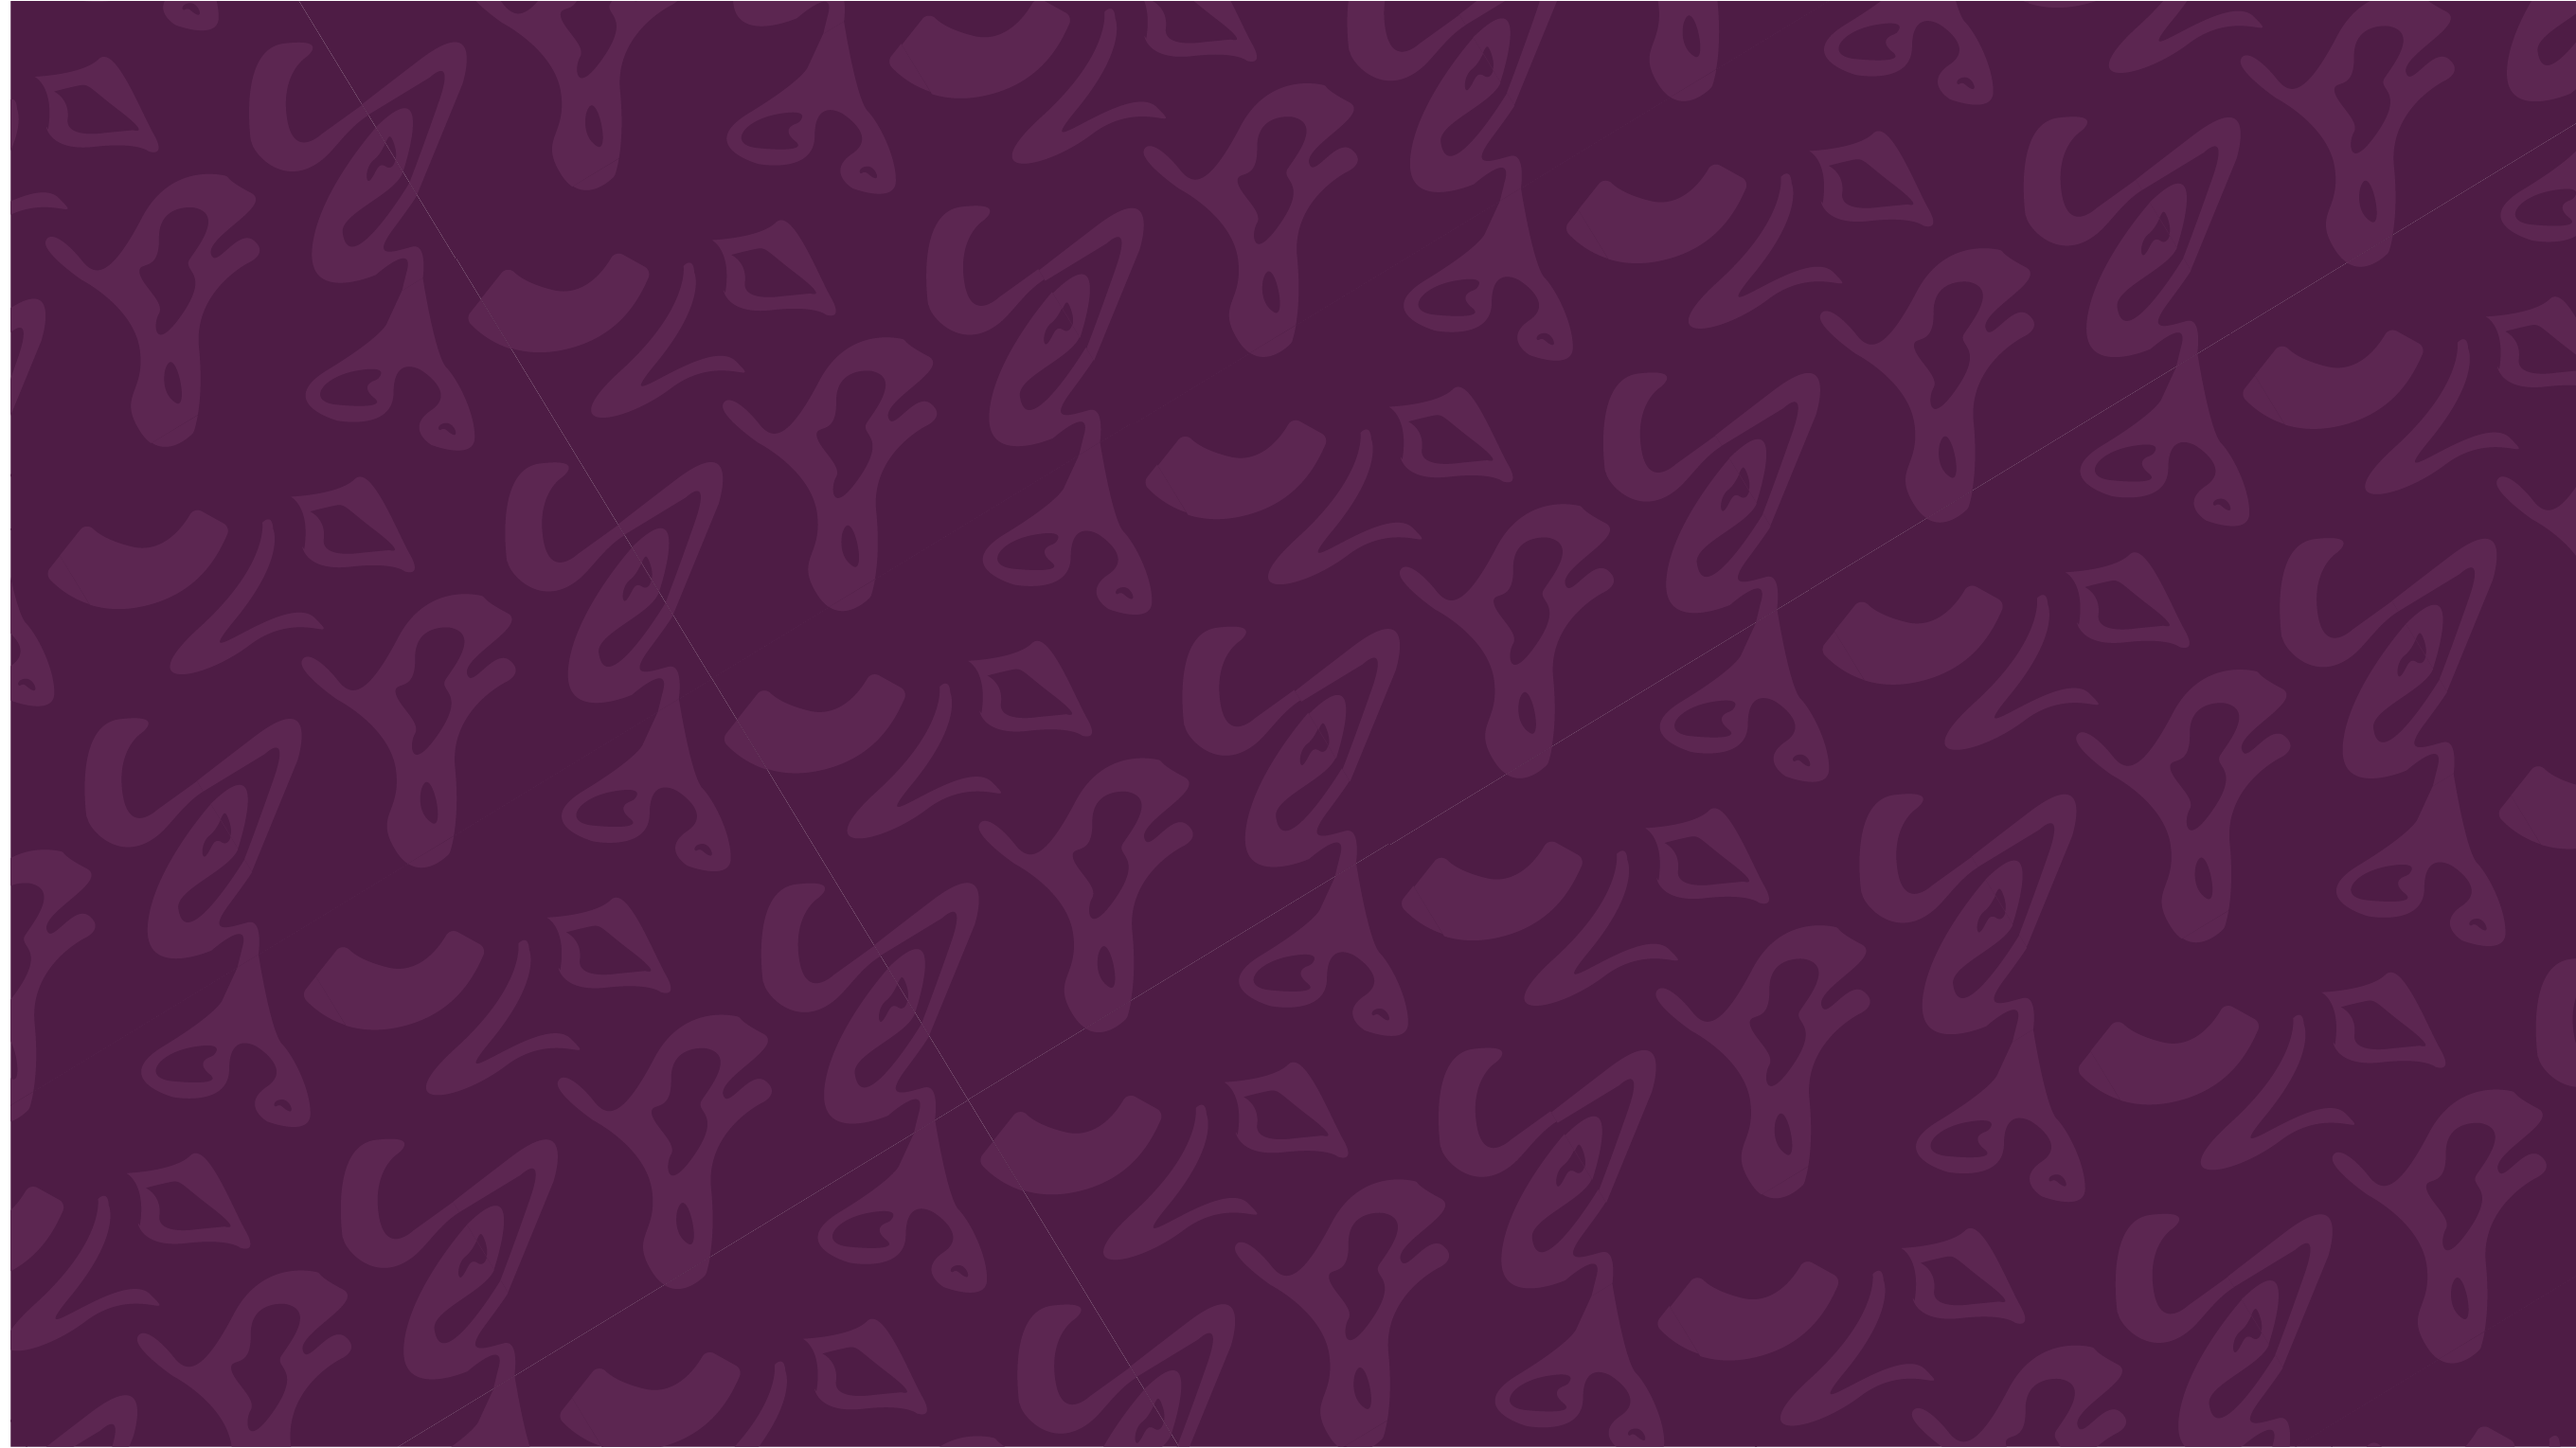
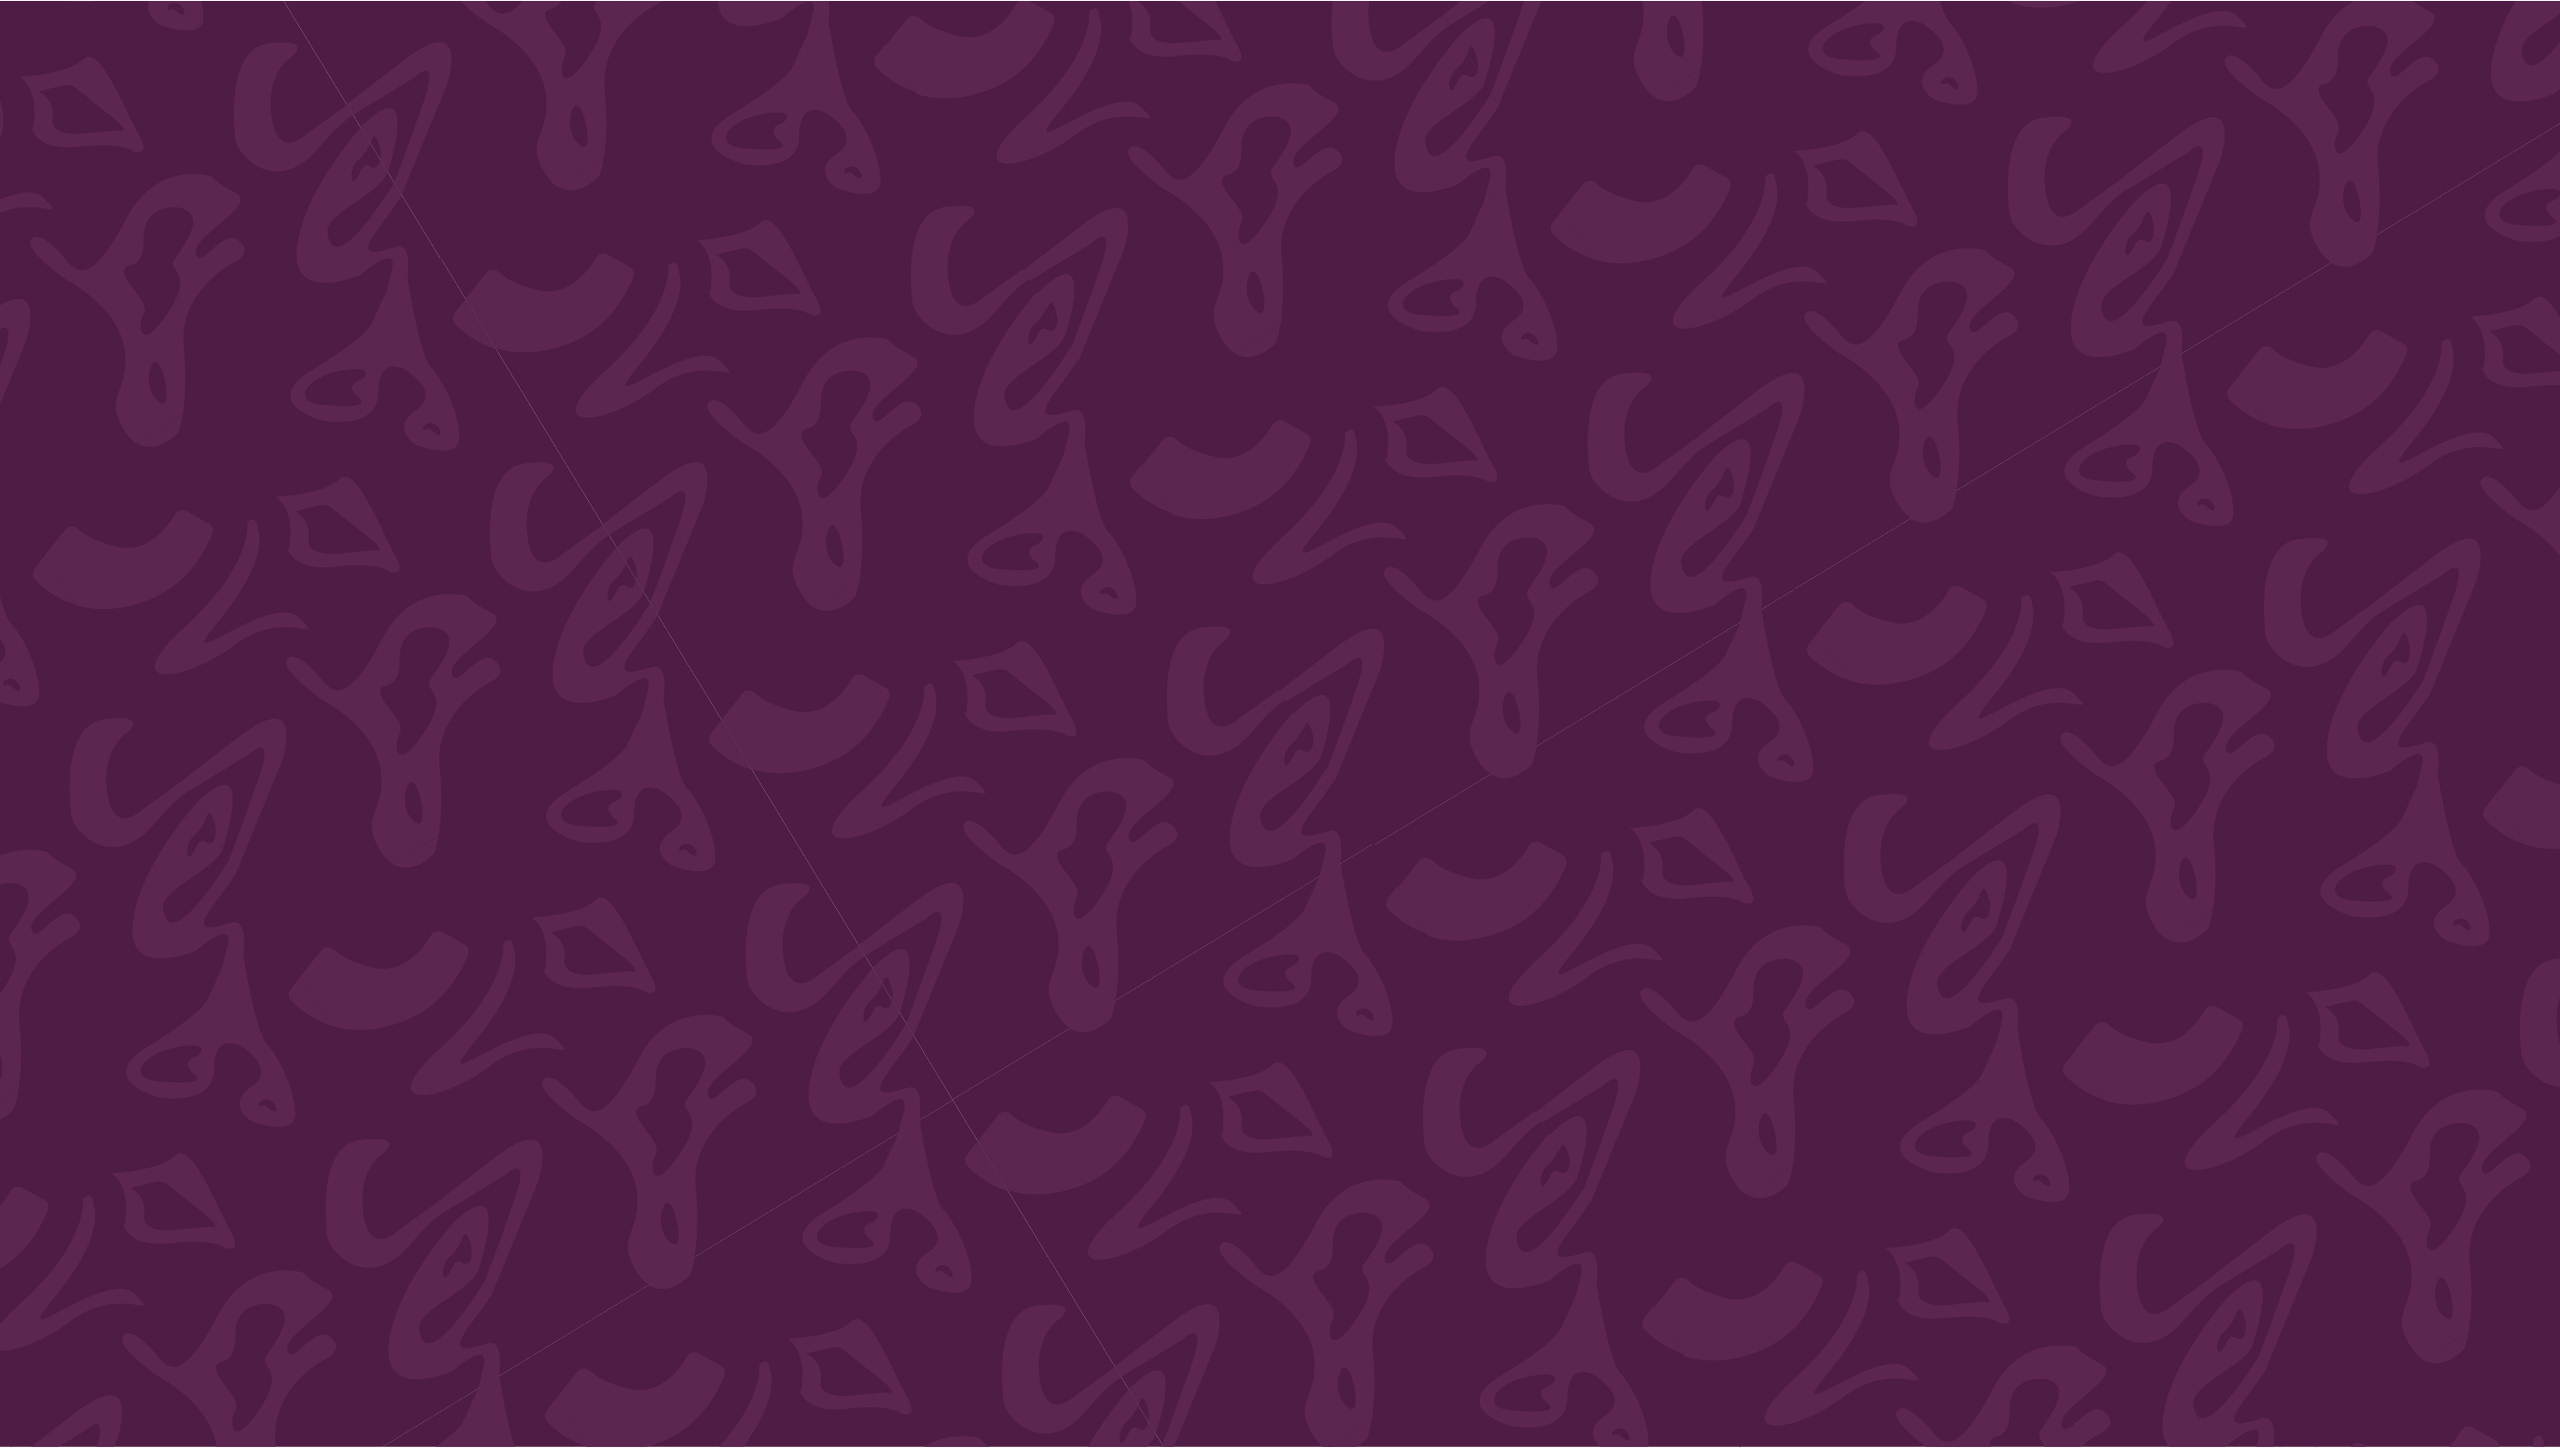
Fix background image placement

Changed region(s): [[0.0, 0.0, 0.0311, 1.0]]

diff --git a/gameworld.py b/gameworld.py
@@ -171,6 +171,7 @@ class View():
         self.screen = pygame.display.set_mode(screen_size, pygame.FULLSCREEN) # sets screen dimensions
         self.image = image.convert() # convert makes the image smaller
         pygame.display.set_caption('Window Viewer') # sets window caption
+        self.banner_size = (self.model.screen_size[0],160)
 
     def draw_player(self):
         """Draw the player at its draw position"""
@@ -231,6 +232,15 @@ class View():
                     [step.cell_coord[0], step.cell_coord[1],self.model.cell_size[0],
                     self.model.cell_size[1]])
 
+    def draw_banner(self):
+        "Draw banner associated with flag"
+        box = pygame.Rect(0, 0, self.banner_size[0], self.banner_size[1])
+        pygame.draw.rect(self.screen, (0,0,0), box)
+
+    def draw_banner_line(self):
+        purple = (36,15,32)
+        pygame.draw.line(self.screen, purple, (0,self.banner_size[1]), (self.banner_size[0],self.banner_size[1]), 5)
+
     def update(self):
         """Update the draw positons of player, color_actors, obstacles, grid, and the flag"""
         self.screen.blit(self.image, (0, 0)) # sets background
@@ -239,9 +249,11 @@ class View():
             self.draw_player()
             self.draw_colors()
             self.draw_obstacles()
+            # self.draw_banner_line()
             self.draw_darkness()
             self.draw_flag()
             self.draw_sparkles()
+            # self.draw_banner()
         else: # if it is the end, just draw the endscreen
             self.draw_endscreen()
         pygame.display.update()

diff --git a/game.py b/game.py
@@ -8,11 +8,12 @@ from level_generation import *
 
 class Game():
     """Class to manage the actor and gameworld classes"""
-    def __init__(self, size=(1880,960), image=pygame.image.load('images/background.png')):
+    def __init__(self, size=(1840,960), image=pygame.image.load('images/background.png')):
         """Create the world.
 
         size: Tuple of the window dimensions
         image: Background image"""
+
         self.image = pygame.transform.scale(image, size)
         self.model = gameworld.Model()
         self.view = gameworld.View(size, self.image, self.model)
